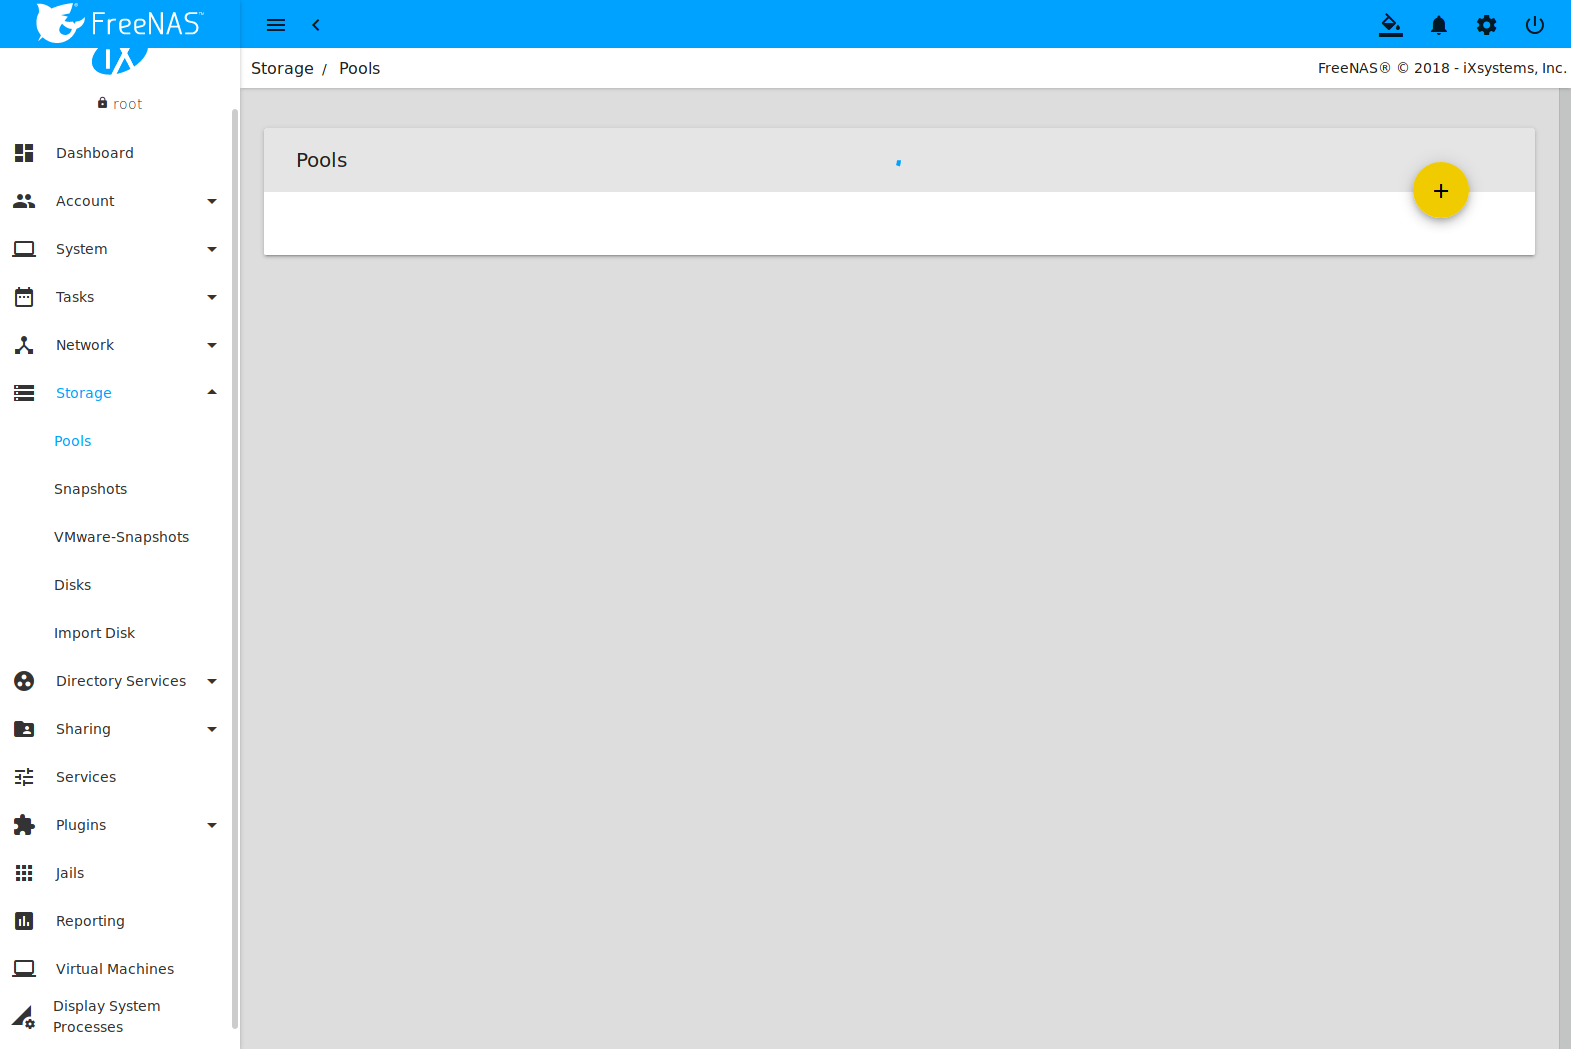
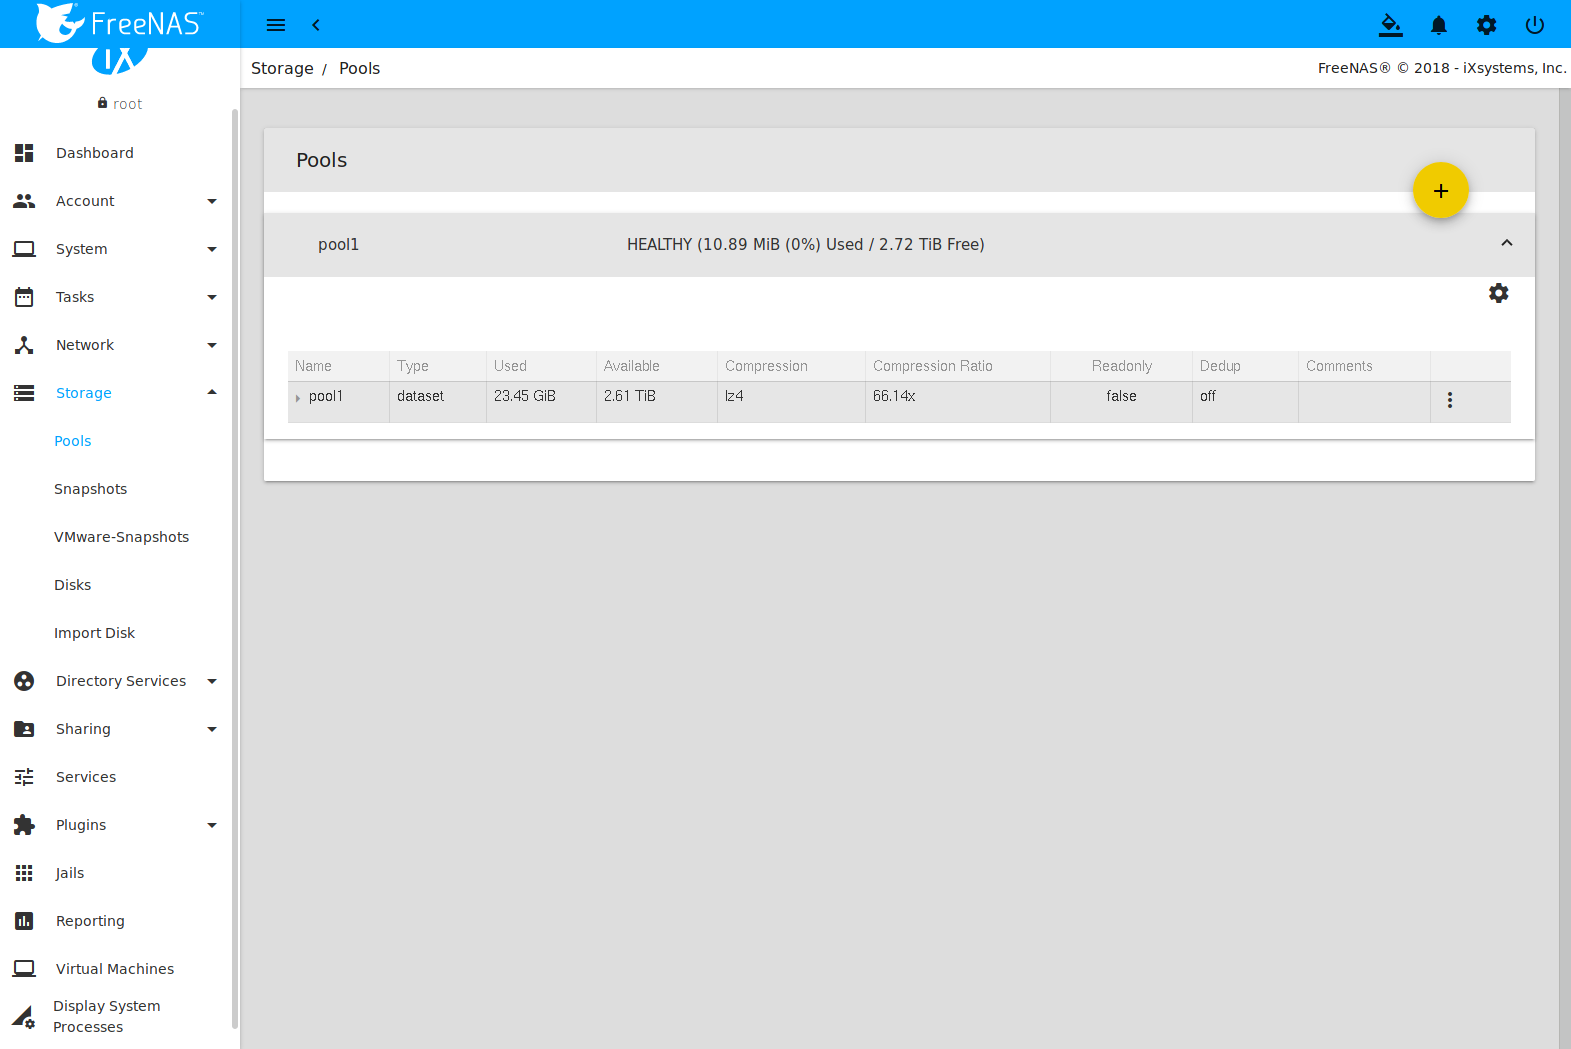
Proofreading pass for BETA3

Changed region(s): [[0.156, 0.183, 0.9981, 0.4576]]

diff --git a/userguide/storage.rst b/userguide/storage.rst
@@ -61,7 +61,7 @@ and click |ui-add| to open the screen shown in
 
 .. _create_pool_poolman_fig:
 
-.. figure:: images/storage-pools-pool-create.png
+.. figure:: images/storage-pools-add.png
 
    Creating a Pool
 
@@ -75,23 +75,21 @@ that the chosen name conforms to these
 Choosing a name that will stick out in the logs is recommended,
 rather than generic names like "data" or "freenas".
 
-If the underlying disks need to be encrypted as a protection against
-physical theft, set the :guilabel:`Encryption` option. A pop-up message
-shows a reminder to :literal:`Always back up the key!`. Without the key,
-the data on the disks is inaccessible. Select :guilabel:`Confirm` then
-click :guilabel:`I UNDERSTAND`.
+To encrypt data on the underlying disks as a protection against
+physical theft, set the :guilabel:`Encryption` option. A pop-up
+message shows a reminder to :literal:`Always back up the key!`.
+Without the key, the data on the disks is inaccessible. Select
+:guilabel:`Confirm` then click :guilabel:`I UNDERSTAND`.
+
 
 .. warning:: Refer to the warnings in :ref:`Managing Encrypted Pools`
-   before enabling encryption! Be aware that this form of encryption
-   will be replaced by OpenZFS native encryption in a future version.
-   Pools created with the current encryption mechanism will need to be
-   backed up and destroyed in order to be recreated with native
-   encryption when it becomes available.
+   before enabling encryption!
 
 
 In the :guilabel:`Available Disks` section, select the disks that will
-be added to the pool. Enter a value to :guilabel:`Filter disks by name`
-or :guilabel:`Filter disks by capacity` to change the order of displayed
+be added to the pool. Enter a value to
+:guilabel:`Filter disks by name` or
+:guilabel:`Filter disks by capacity` to change the order of displayed
 disks.
 
 .. note:: The usable space of each disk in a pool is limited to the
@@ -99,8 +97,8 @@ disks.
    pools with disks of the same size is recommended.
 
 
-After selecting the desired disks, click the right arrow to add them to
-the :guilabel:`Data VDevs` section. Any disks that appear in
+After selecting the desired disks, click the right arrow to add them
+to the :guilabel:`Data VDevs` section. Any disks that appear in
 :guilabel:`Data VDevs` are used to create the pool. To remove a disk
 from that section, select the disk and use the left arrow to return it
 to the :guilabel:`Available Disks` section.
@@ -140,28 +138,28 @@ These layouts are supported:
    arrays.
 
 
-Once the desired layout is configured, click :guilabel:`CREATE`. A pop-up
-warning serves as a reminder that all disk contents will be erased.
-Enable the :guilabel:`Confirm` option then click :guilabel:`CREATE POOL`
-to create the pool.
+After the desired layout is configured, click :guilabel:`CREATE`. A
+pop-up warning serves as a reminder that all disk contents will be
+erased. Click :guilabel:`Confirm`, then :guilabel:`CREATE POOL` to
+create the pool.
 
 .. note:: To instead preserve existing data, click the
    :guilabel:`CANCEL` button and refer to :ref:`Importing a Disk` and
    :ref:`Importing a Pool` to see if the existing format is supported.
-   If so, perform that action instead. If the current storage format is
-   not supported, it is necessary to back up the data to external media,
-   create the pool, then restore the data to the new pool.
+   If so, perform that action instead. If the current storage format
+   is not supported, it is necessary to back up the data to external
+   media, create the pool, then restore the data to the new pool.
 
 
 Depending on the size and number of disks, the type of controller, and
 whether encryption is selected, creating the pool may take some time.
 If the :guilabel:`Encryption` option was selected, a popup message
-will provide a link to :guilabel:`Download Recovery Key`. Click the link
+provides a link to :guilabel:`Download Recovery Key`. Click the link
 and save the key to a safe location. When finished, click
 :guilabel:`DONE`.
 
-Once the pool is created, the screen refreshes and the new pool is
-listed in :menuselection:`Storage --> Pools`.
+The screen refreshes after the pool is created, showing the new pool
+in :menuselection:`Storage --> Pools`.
 
 In the example shown in :numref:`Figure %s <zfs_vol_fig>`, the created
 pool is named *pool1*. The description indicates that it is healthy.
@@ -568,10 +566,8 @@ encrypted pool also displays a button to :guilabel:`DOWNLOAD KEY` for
 that pool.
 
 
-.. tabularcolumns:: |>{\RaggedRight}p{\dimexpr 0.20\linewidth-2\tabcolsep}
-                    |>{\RaggedRight}p{\dimexpr 0.14\linewidth-2\tabcolsep}
-                    |>{\Centering}p{\dimexpr 0.12\linewidth-2\tabcolsep}
-                    |>{\RaggedRight}p{\dimexpr 0.54\linewidth-2\tabcolsep}|
+.. tabularcolumns:: |>{\RaggedRight}p{\dimexpr 0.5\linewidth-2\tabcolsep}
+                    |>{\RaggedRight}p{\dimexpr 0.5\linewidth-2\tabcolsep}|
 
 .. _detach_pool_options:
 
@@ -742,7 +738,7 @@ To create a dataset, select an existing pool in
 .. _zfs_create_dataset:
 
 #ifdef freenas
-.. figure:: images/storage-pools-add-dataset.png
+.. figure:: images/storage-pools-dataset-add.png
 
    Creating a ZFS Dataset
 #endif freenas
@@ -994,7 +990,7 @@ To create a zvol, select an existing ZFS pool or dataset, click
 
 .. _zfs_create_zvol_fig:
 
-.. figure:: images/storage-pools-add-zvol.png
+.. figure:: images/storage-pools-zvol-add.png
 
    Adding a Zvol
 

diff --git a/userguide/jails.rst b/userguide/jails.rst
@@ -242,12 +242,12 @@ a new jail.
    +---------------------------+-------------------+---------------------------------------------------------------------------------------------------------+
 
 
-Similar to the :ref:`Jail Wizard`, configuring the basic properties then
-clicking :guilabel:`SAVE` is often all that is needed to quickly create
-a new jail. To continue configuring more settings, click
-:guilabel:`NEXT` to proceed to the :guilabel:`Jail Properties` section of
-the form.  :numref:`Table %s <jail_jail_props_tab>` describes each of
-these options.
+Similar to the :ref:`Jail Wizard`, configuring the basic properties,
+then clicking :guilabel:`SAVE` is often all that is needed to quickly
+create a new jail. To continue configuring more settings, click
+:guilabel:`NEXT` to proceed to the :guilabel:`Jail Properties` section
+of the form.  :numref:`Table %s <jail_jail_props_tab>` describes each
+of these options.
 
 
 .. tabularcolumns:: |>{\RaggedRight}p{\dimexpr 0.25\linewidth-2\tabcolsep}
@@ -782,18 +782,19 @@ Enable sshd:
    sshd_enable: NO -> YES
 
 
-.. tip:: Using :command:`sysrc` to enable sshd verifies sshd is
+.. tip:: Using :command:`sysrc` to enable sshd verifies that sshd is
    enabled.
+
 
 Start the SSH daemon: :samp:`service sshd start`
 
-The first time the service runs, the jail RSA key pair is generated and
-the key fingerprint is displayed.
+The first time the service runs, the jail RSA key pair is generated
+and the key fingerprint is displayed.
 
 Add a user account with :command:`adduser`. Follow the prompts,
 :kbd:`Enter` will accept the default value offered. Users that require
-*root* access must also be a member of the *wheel* group. Enter *wheel*
-when prompted to *invite user into other groups? []:*
+*root* access must also be a member of the *wheel* group. Enter
+*wheel* when prompted to *invite user into other groups? []:*
 
 
 .. code-block:: none
@@ -969,22 +970,22 @@ The workflow for adding storage usually goes like this:
 
 #.  Use the jail
     :menuselection:`Mount points -->` |ui-add|
-    to select the pool or dataset as the
-    :guilabel:`Source`.
+    to select the the :guilabel:`Source` of the data and the
+    :guilabel:`Destination` where it will be mounted in the jail.
+
 
 To prevent writes to the storage, click :guilabel:`Read-Only`.
 
 After storage has been added or created, it appears in the
 :guilabel:`Mount points` for that jail. In the example shown in
 :numref:`Figure %s <jail_example_storage_fig>`,
-a dataset named :file:`pool1/data` has been chosen as the
+a dataset named :file:`pool1/smb-storage` has been chosen as the
 :guilabel:`Source` as it contains the files stored on the %brand%
-system. When the storage was created, the user browsed to the existing
-:file:`pool1/jails/freebsd1/usr/local/test` directory in the
-:guilabel:`Destination` field. The storage was added to the *freenas1*
-entry in the tree as :file:`/usr/local/test`. The user has clicked
-this :file:`/usr/local/test` entry to access the :guilabel:`Edit`
-screen.
+system. The user entered
+:file:`/mnt/iocage/jails/samplejail/root/mounted` as the directory
+to be mounted in the :guilabel:`Destination` field. To users inside
+the jail, this data will appear to be in the :file:`/root/mounted`
+directory.
 
 
 .. _jail_example_storage_fig:

diff --git a/userguide/sharing.rst b/userguide/sharing.rst
@@ -357,7 +357,7 @@ To create an authenticated or Time Machine share:
 #. Click :guilabel:`SAVE`.
 
 To configure multiple authenticated or Time Machine shares, repeat
-this process for each user. The new shares will appear in
+this process for each user. The new shares appear in
 :menuselection:`Sharing --> Apple (AFP)`.
 
 .. _creating_an_authenticated_share_fig:
@@ -776,14 +776,14 @@ Troubleshooting NFS
 Some NFS clients do not support the NLM (Network Lock Manager)
 protocol used by NFS. This is the case if the client receives an error
 that all or part of the file may be locked when a file transfer is
-attempted. To resolve this error, add the option **-o nolock** when
-running the :command:`mount` command on the client to allow write
+attempted. To resolve this error, add the option :samp:`-o nolock`
+when running the :command:`mount` command on the client to allow write
 access to the NFS share.
 
 If a "time out giving up" error is shown when trying to mount the
 share from a Linux system, make sure that the portmapper service is
 running on the Linux client. If portmapper is running and timeouts are
-still shown, force the use of TCP by including **-o tcp** in the
+still shown, force the use of TCP by including :samp:`-o tcp` in the
 :command:`mount` command.
 
 If a :literal:`RPC: Program not registered` error is shown, upgrade to
@@ -1265,7 +1265,7 @@ for more details.
    the server has to be to a fruit-enabled share.
 
 
-These VFS objects do not appear in the dropdown menu:
+These VFS objects do not appear in the drop-down menu:
 
 * **recycle:** moves deleted files to the recycle directory instead of
   deleting them. Controlled by :guilabel:`Export Recycle Bin` in the
@@ -1315,7 +1315,7 @@ To configure an unauthenticated SMB share:
    Creating an Unauthenticated SMB Share
 
 
-The new share will appear in
+The new share appears in
 :menuselection:`Sharing --> Windows (SMB) Shares`.
 
 Users can now access the share from any SMB client and will not be
@@ -1459,7 +1459,7 @@ Explorer:
 
 
 The next time a share is accessed with Explorer, a prompt to
-authenticate will appear.
+authenticate appears.
 
 
 .. index:: Shadow Copies
@@ -2288,7 +2288,7 @@ Fibre Channel Ports
 
 If the %brand% system has Fibre Channel ports,
 :menuselection:`Sharing --> Block (iSCSI)`
-will appear as
+appears as
 :menuselection:`Sharing --> Block (iSCSI/FC)`
 and an extra :guilabel:`Fibre Channel Ports` tab is added. An example
 is shown in

diff --git a/userguide/system.rst b/userguide/system.rst
@@ -1133,15 +1133,16 @@ to see the screen shown in :numref:`Figure %s <cloud_creds_fig>`.
    Cloud Credentials List
 
 
-The list shows the :guilabel:`Account Name` and :guilabel:`Provider` for
-each credential. There are options to :guilabel:`Edit` and
+The list shows the :guilabel:`Account Name` and :guilabel:`Provider`
+for each credential. There are options to :guilabel:`Edit` and
 :guilabel:`Delete` a credential after clicking |ui-options| for a
 credential.
 
 Click |ui-add| to add a new cloud credential. Choose a
 :guilabel:`Provider` to display any specific options for that
-provider. numref:`Figure %s <cloud_creds_add_fig>` shows the form for
+provider. :numref:`Figure %s <cloud_creds_add_fig>` shows the form for
 an *Amazon Cloud Drive* provider:
+
 
 .. _cloud_creds_add_fig:
 
@@ -1278,8 +1279,7 @@ can be used to manage the following:
    driver.
 
 #. **FreeBSD rc.conf options:**
-   `rc.conf(5)
-   <https://www.freebsd.org/cgi/man.cgi?query=rc.conf&manpath=FreeBSD+11.0-RELEASE>`__
+   `rc.conf(5) <https://www.freebsd.org/cgi/man.cgi?query=rc.conf>`__
    is used to pass system configuration options to the system startup
    scripts as the system boots. Since %brand% has been optimized for
    storage, not all of the services mentioned in rc.conf(5) are

diff --git a/userguide/plugins.rst b/userguide/plugins.rst
@@ -44,6 +44,7 @@ To install a plugin, click
 :numref:`Figure %s <view_list_plugins_fig>` shows some of the available
 plugins.
 
+
 .. _view_list_plugins_fig:
 
 .. figure:: images/plugins-available.png
@@ -52,7 +53,9 @@ plugins.
 
 
 The :guilabel:`Available Plugins` page lists the plugin name,
-description, current version, and if the plugin is officially supported.
+description, current version, and whether the plugin is officially
+supported.
+
 
 .. note:: If the list of available plugins is not displayed, open
    :ref:`Shell` and verify that the %brand% system can :command:`ping`

diff --git a/userguide/api.rst b/userguide/api.rst
@@ -132,8 +132,8 @@ summarizes acceptable values. This resource uses JSON, so the boolean
 values are *True* or *False*.
 
 
-.. tabularcolumns:: |>{\RaggedRight}p{\dimexpr 0.20\linewidth-2\tabcolsep}
-                    |>{\RaggedRight}p{\dimexpr 0.16\linewidth-2\tabcolsep}
+.. tabularcolumns:: |>{\RaggedRight}p{\dimexpr 0.24\linewidth-2\tabcolsep}
+                    |>{\RaggedRight}p{\dimexpr 0.12\linewidth-2\tabcolsep}
                     |>{\RaggedRight}p{\dimexpr 0.64\linewidth-2\tabcolsep}|
 
 .. _api_json_parms_tab:

diff --git a/userguide/tasks.rst b/userguide/tasks.rst
@@ -1710,7 +1710,7 @@ schedule for running a cloud sync task. An example is shown in
 
 When an existing task has run, a :literal:`✓` or :literal:`x` is shown
 to reflect the success or failure of the task. Click either symbol to
-open the :guilabel:`Logs` window. This window displays the logs related
+open the :guilabel:`Logs` window. This window displays logs related to
 the task that ran. Click :guilabel:`DOWNLOAD LOGS` to open a popup
 window to download the :file:`.log` file.
 

diff --git a/userguide/cli.rst b/userguide/cli.rst
@@ -284,7 +284,7 @@ Starting with version 9.2.1, %brand% enables compression on newly
 created ZFS pools by default. Since IOzone creates test data that is
 compressible, this can skew test results. To configure IOzone to
 generate incompressible test data, include the options
-**-+w 1 -+y 1 -+C 1**.
+:samp:`-+w 1 -+y 1 -+C 1`.
 
 Alternatively, consider temporarily disabling compression on the ZFS
 pool or dataset when running IOzone benchmarks.
